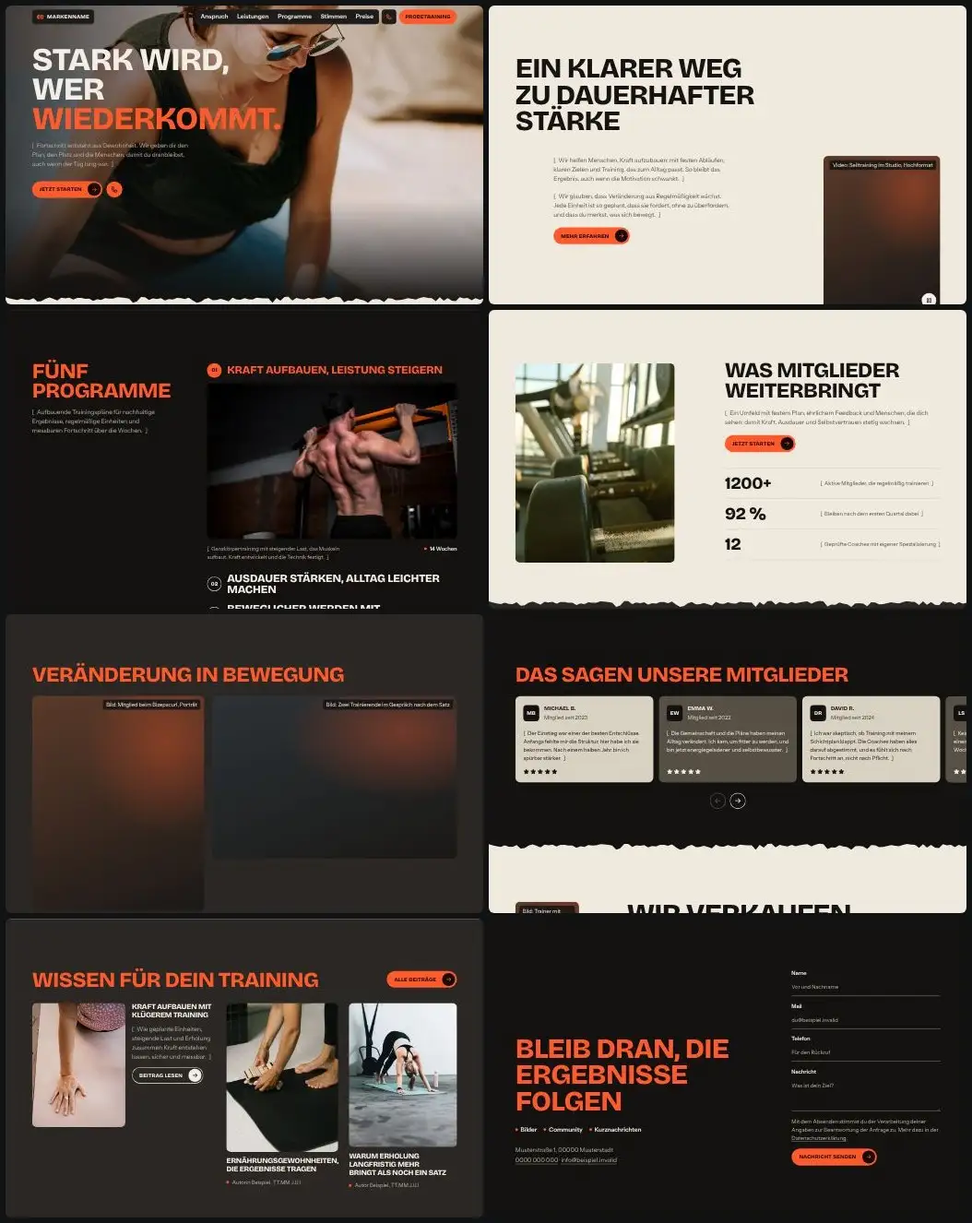
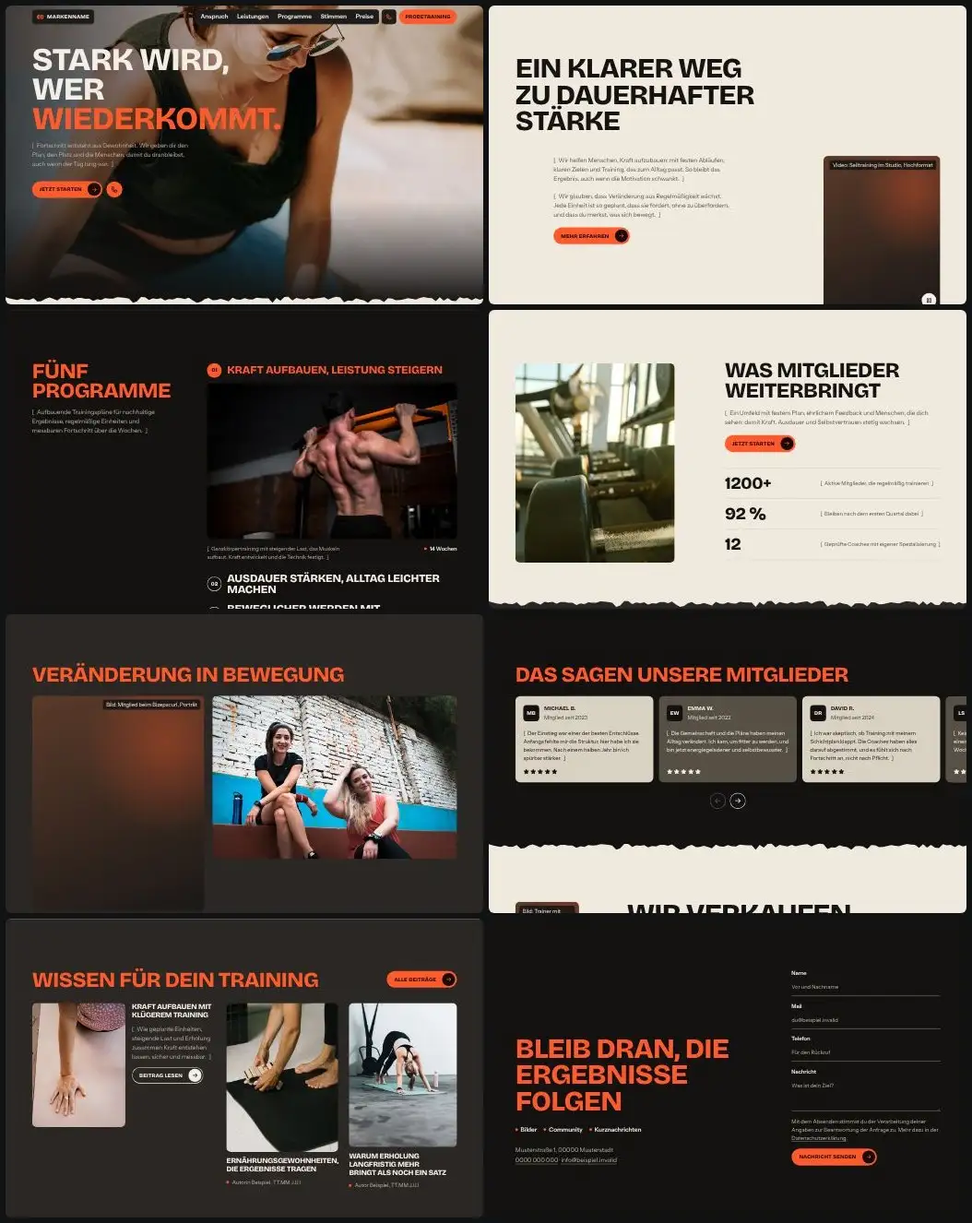
Bibliothek t55: weitere Beispielfotos (Unsplash) eingebaut, Vorschaubilder neu erzeugt
Claude-Session: https://claude.ai/code/session_01DoGuL1bwF3ewggMgZ4Cpvd

Changed region(s): [[0.2125, 0.5566, 0.4858, 0.7112]]

diff --git a/skills/webdesign-conversion/assets/vorlagen/bibliothek/t56/v2.html b/skills/webdesign-conversion/assets/vorlagen/bibliothek/t56/v2.html
@@ -61,7 +61,7 @@
   <section class="held2" id="top" aria-labelledby="h-held">
     <div class="wrap held2__raster">
       <div class="held2__text" data-staffel>
-        <h1 id="h-held" data-zeig>Dein Körper <span class="inbild"><span class="bild bild--b inbild__bild" data-platzhalter="Bild" aria-hidden="true"></span>kann mehr</span> als du denkst.</h1>
+        <h1 id="h-held" data-zeig>Dein Körper <span class="inbild"><span class="bild bild--b inbild__bild"><img src="bilder/sport-laeufer-huegel.webp" width="800" height="534" alt="Läufer auf einem Hügel unter weitem Himmel" loading="lazy" decoding="async"></span>kann mehr</span> als du denkst.</h1>
         <p data-zeig>Wir trainieren keine Körper, wir begleiten Menschen. Komm vorbei, probier aus und finde heraus, was dich trägt.</p>
         <div class="held2__knoepfe" data-zeig><a class="knopf knopf--dunkel" href="#beitreten"><span>Jetzt starten</span><span class="knopf__kreis " aria-hidden="true"><svg width="18" height="18" aria-hidden="true" focusable="false"><use href="#i-doppel"/></svg></span></a><a class="rund rund--tel" href="tel:+490000000000" aria-label="Anrufen (Beispielnummer)"><svg width="22" height="22" aria-hidden="true" focusable="false"><use href="#i-telefon"/></svg></a></div>
       </div>
@@ -85,7 +85,7 @@
       </dl>
       <div class="zwei" data-staffel>
         <div class="bild bild--a" data-zeig data-platzhalter="Bild: Athletin mit Tätowierung, Querformat" role="img" aria-label="Platzhalter für ein Foto einer Athletin im Studio"></div>
-        <div class="bild bild--d" data-zeig data-platzhalter="Bild: Athletin beim Dehnen, Querformat" role="img" aria-label="Platzhalter für ein Foto einer Athletin beim Dehnen"></div>
+        <div class="bild bild--d" data-zeig><img src="bilder/sport-dehnen-halle.webp" width="1000" height="667" alt="Frau dehnt sich in einer hellen Halle" loading="lazy" decoding="async"></div>
       </div>
     </div>
   </section>
@@ -104,7 +104,7 @@
   <!-- 4. Galerie: dunkel, breite Bilder in einer Spur -->
   <section class="sektion dunkel galerie" id="galerie" aria-labelledby="h-galerie" data-reiter-gruppe>
     <div class="wrap"><header class="mitte"><p class="kicker " data-zeig><span class="kicker__icon" aria-hidden="true"><svg width="14" height="14" aria-hidden="true" focusable="false"><use href="#i-ziel"/></svg></span>Galerie</p><h2 id="h-galerie" data-zeig>Einblicke in unser Studio</h2></header></div>
-    <ul class="spur spur--breit" data-reiter-spur tabindex="0" role="region" aria-label="Galerie, seitlich wischen" data-beispiel><li><figure class="gal"><div class="bild bild--c gal__bild" data-platzhalter="Bild: Athletin mit Sonnenbrille, Studio" role="img" aria-label="Platzhalter für ein Foto: Athletin mit Sonnenbrille, Studio"></div></figure></li><li><figure class="gal"><div class="bild bild--a gal__bild" data-platzhalter="Bild: Läuferin im Gegenlicht" role="img" aria-label="Platzhalter für ein Foto: Läuferin im Gegenlicht"></div></figure></li><li><figure class="gal"><div class="bild bild--d gal__bild"><img src="bilder/kreuzheben-langhantel.webp" width="800" height="533" alt="Frau greift eine Langhantel zum Kreuzheben" loading="lazy" decoding="async"></div></figure></li><li><figure class="gal"><div class="bild bild--b gal__bild" data-platzhalter="Bild: Gruppe beim Warm-up" role="img" aria-label="Platzhalter für ein Foto: Gruppe beim Warm-up"></div></figure></li><li><figure class="gal"><div class="bild bild--c gal__bild"><img src="bilder/haende-auf-matte.webp" width="800" height="533" alt="Hände auf einer Trainingsmatte" loading="lazy" decoding="async"></div></figure></li></ul>
+    <ul class="spur spur--breit" data-reiter-spur tabindex="0" role="region" aria-label="Galerie, seitlich wischen" data-beispiel><li><figure class="gal"><div class="bild bild--c gal__bild" data-platzhalter="Bild: Athletin mit Sonnenbrille, Studio" role="img" aria-label="Platzhalter für ein Foto: Athletin mit Sonnenbrille, Studio"></div></figure></li><li><figure class="gal"><div class="bild bild--a gal__bild"><img src="bilder/sport-frau-gegenlicht.webp" width="1000" height="600" alt="Frau im Gegenlicht der untergehenden Sonne" loading="lazy" decoding="async"></div></figure></li><li><figure class="gal"><div class="bild bild--d gal__bild"><img src="bilder/kreuzheben-langhantel.webp" width="800" height="533" alt="Frau greift eine Langhantel zum Kreuzheben" loading="lazy" decoding="async"></div></figure></li><li><figure class="gal"><div class="bild bild--b gal__bild"><img src="bilder/sport-gruppe-warmup.webp" width="1000" height="663" alt="Gruppe von Frauen beim Aufwärmen" loading="lazy" decoding="async"></div></figure></li><li><figure class="gal"><div class="bild bild--c gal__bild"><img src="bilder/haende-auf-matte.webp" width="800" height="533" alt="Hände auf einer Trainingsmatte" loading="lazy" decoding="async"></div></figure></li></ul>
     <div class="wrap"><div class="steuerung steuerung--mitte" data-reiter-steuerung><button class="rund" type="button" data-reiter="zurueck" aria-label="Vorheriges Bild"><svg width="20" height="20" aria-hidden="true" focusable="false"><use href="#i-links"/></svg></button><button class="rund" type="button" data-reiter="weiter" aria-label="Nächstes Bild"><svg width="20" height="20" aria-hidden="true" focusable="false"><use href="#i-pfeil"/></svg></button></div></div>
   </section>
 
@@ -165,7 +165,7 @@
   <section class="sektion faqs" id="faq" aria-labelledby="h-faq">
     <div class="wrap">
       <header class="mitte"><p class="kicker " data-zeig><span class="kicker__icon" aria-hidden="true"><svg width="14" height="14" aria-hidden="true" focusable="false"><use href="#i-blitz"/></svg></span>Fragen</p><h2 id="h-faq" data-zeig>Alles, was du wissen solltest</h2></header>
-      <div class="faq-liste" data-exklusiv data-beispiel><details class="faq" open data-zeig><summary><span class="faq__pm" aria-hidden="true"><span class="faq__plus"><svg width="16" height="16" aria-hidden="true" focusable="false"><use href="#i-plus"/></svg></span><span class="faq__minus"><svg width="16" height="16" aria-hidden="true" focusable="false"><use href="#i-minus"/></svg></span></span><span class="faq__frage">Welche Mitgliedschaften gibt es und was kosten sie?</span></summary><div class="faq__antwort"><div class="bild bild--b faq__bild" data-platzhalter="Bild: Trainerin berät" aria-hidden="true"></div><p>Es gibt zwei Tarife, monatlich oder jährlich zahlbar. Die aktuellen Preise stehen auf der Preisseite. Probetraining ist kostenlos und unverbindlich.</p></div></details><details class="faq" data-zeig><summary><span class="faq__pm" aria-hidden="true"><span class="faq__plus"><svg width="16" height="16" aria-hidden="true" focusable="false"><use href="#i-plus"/></svg></span><span class="faq__minus"><svg width="16" height="16" aria-hidden="true" focusable="false"><use href="#i-minus"/></svg></span></span><span class="faq__frage">Gibt es Personal Training?</span></summary><div class="faq__antwort"><p>Ja. Einzeltraining ist im Premiumtarif einmal im Monat enthalten und kann zugebucht werden.</p></div></details><details class="faq" data-zeig><summary><span class="faq__pm" aria-hidden="true"><span class="faq__plus"><svg width="16" height="16" aria-hidden="true" focusable="false"><use href="#i-plus"/></svg></span><span class="faq__minus"><svg width="16" height="16" aria-hidden="true" focusable="false"><use href="#i-minus"/></svg></span></span><span class="faq__frage">Gibt es Ermäßigungen für Schüler, Studierende oder Senioren?</span></summary><div class="faq__antwort"><p>Ja, mit gültigem Nachweis. Frag beim Probetraining danach, wir rechnen es direkt aus.</p></div></details><details class="faq" data-zeig><summary><span class="faq__pm" aria-hidden="true"><span class="faq__plus"><svg width="16" height="16" aria-hidden="true" focusable="false"><use href="#i-plus"/></svg></span><span class="faq__minus"><svg width="16" height="16" aria-hidden="true" focusable="false"><use href="#i-minus"/></svg></span></span><span class="faq__frage">Wann hat das Studio geöffnet?</span></summary><div class="faq__antwort"><p>Täglich von früh bis spät, am Wochenende etwas kürzer. Die genauen Zeiten stehen im Fuß und bei Google, sobald sie eingetragen sind.</p></div></details><details class="faq" data-zeig><summary><span class="faq__pm" aria-hidden="true"><span class="faq__plus"><svg width="16" height="16" aria-hidden="true" focusable="false"><use href="#i-plus"/></svg></span><span class="faq__minus"><svg width="16" height="16" aria-hidden="true" focusable="false"><use href="#i-minus"/></svg></span></span><span class="faq__frage">Muss ich Kurse vorab buchen?</span></summary><div class="faq__antwort"><p>Für beliebte Kurse empfehlen wir eine Buchung, damit du sicher einen Platz bekommst. Die Buchung klappt per App oder am Empfang.</p></div></details><details class="faq" data-zeig><summary><span class="faq__pm" aria-hidden="true"><span class="faq__plus"><svg width="16" height="16" aria-hidden="true" focusable="false"><use href="#i-plus"/></svg></span><span class="faq__minus"><svg width="16" height="16" aria-hidden="true" focusable="false"><use href="#i-minus"/></svg></span></span><span class="faq__frage">Ist eine Eingangsberatung dabei?</span></summary><div class="faq__antwort"><p>Ja. Zum Start besprechen wir dein Ziel, deine Woche und erstellen einen ersten Plan.</p></div></details></div>
+      <div class="faq-liste" data-exklusiv data-beispiel><details class="faq" open data-zeig><summary><span class="faq__pm" aria-hidden="true"><span class="faq__plus"><svg width="16" height="16" aria-hidden="true" focusable="false"><use href="#i-plus"/></svg></span><span class="faq__minus"><svg width="16" height="16" aria-hidden="true" focusable="false"><use href="#i-minus"/></svg></span></span><span class="faq__frage">Welche Mitgliedschaften gibt es und was kosten sie?</span></summary><div class="faq__antwort"><div class="bild bild--b faq__bild"><img src="bilder/sport-beratung-tablet.webp" width="1000" height="563" alt="Trainer und Kundin besprechen den Trainingsplan auf einem Tablet" loading="lazy" decoding="async"></div><p>Es gibt zwei Tarife, monatlich oder jährlich zahlbar. Die aktuellen Preise stehen auf der Preisseite. Probetraining ist kostenlos und unverbindlich.</p></div></details><details class="faq" data-zeig><summary><span class="faq__pm" aria-hidden="true"><span class="faq__plus"><svg width="16" height="16" aria-hidden="true" focusable="false"><use href="#i-plus"/></svg></span><span class="faq__minus"><svg width="16" height="16" aria-hidden="true" focusable="false"><use href="#i-minus"/></svg></span></span><span class="faq__frage">Gibt es Personal Training?</span></summary><div class="faq__antwort"><p>Ja. Einzeltraining ist im Premiumtarif einmal im Monat enthalten und kann zugebucht werden.</p></div></details><details class="faq" data-zeig><summary><span class="faq__pm" aria-hidden="true"><span class="faq__plus"><svg width="16" height="16" aria-hidden="true" focusable="false"><use href="#i-plus"/></svg></span><span class="faq__minus"><svg width="16" height="16" aria-hidden="true" focusable="false"><use href="#i-minus"/></svg></span></span><span class="faq__frage">Gibt es Ermäßigungen für Schüler, Studierende oder Senioren?</span></summary><div class="faq__antwort"><p>Ja, mit gültigem Nachweis. Frag beim Probetraining danach, wir rechnen es direkt aus.</p></div></details><details class="faq" data-zeig><summary><span class="faq__pm" aria-hidden="true"><span class="faq__plus"><svg width="16" height="16" aria-hidden="true" focusable="false"><use href="#i-plus"/></svg></span><span class="faq__minus"><svg width="16" height="16" aria-hidden="true" focusable="false"><use href="#i-minus"/></svg></span></span><span class="faq__frage">Wann hat das Studio geöffnet?</span></summary><div class="faq__antwort"><p>Täglich von früh bis spät, am Wochenende etwas kürzer. Die genauen Zeiten stehen im Fuß und bei Google, sobald sie eingetragen sind.</p></div></details><details class="faq" data-zeig><summary><span class="faq__pm" aria-hidden="true"><span class="faq__plus"><svg width="16" height="16" aria-hidden="true" focusable="false"><use href="#i-plus"/></svg></span><span class="faq__minus"><svg width="16" height="16" aria-hidden="true" focusable="false"><use href="#i-minus"/></svg></span></span><span class="faq__frage">Muss ich Kurse vorab buchen?</span></summary><div class="faq__antwort"><p>Für beliebte Kurse empfehlen wir eine Buchung, damit du sicher einen Platz bekommst. Die Buchung klappt per App oder am Empfang.</p></div></details><details class="faq" data-zeig><summary><span class="faq__pm" aria-hidden="true"><span class="faq__plus"><svg width="16" height="16" aria-hidden="true" focusable="false"><use href="#i-plus"/></svg></span><span class="faq__minus"><svg width="16" height="16" aria-hidden="true" focusable="false"><use href="#i-minus"/></svg></span></span><span class="faq__frage">Ist eine Eingangsberatung dabei?</span></summary><div class="faq__antwort"><p>Ja. Zum Start besprechen wir dein Ziel, deine Woche und erstellen einen ersten Plan.</p></div></details></div>
     </div>
   </section>
 

diff --git a/skills/webdesign-conversion/assets/vorlagen/bibliothek/t56/index.html b/skills/webdesign-conversion/assets/vorlagen/bibliothek/t56/index.html
@@ -157,7 +157,7 @@
             <p class="tarif__titel">Enthalten:</p>
             <ul class="tarif__liste"><li><span class="haken" aria-hidden="true"><svg width="14" height="14" aria-hidden="true" focusable="false"><use href="#i-haken"/></svg></span>Zugang zu allen Geräten</li><li><span class="haken" aria-hidden="true"><svg width="14" height="14" aria-hidden="true" focusable="false"><use href="#i-haken"/></svg></span>Kurse ohne Limit</li><li><span class="haken" aria-hidden="true"><svg width="14" height="14" aria-hidden="true" focusable="false"><use href="#i-haken"/></svg></span>Persönliches Coaching im Monat</li><li><span class="haken" aria-hidden="true"><svg width="14" height="14" aria-hidden="true" focusable="false"><use href="#i-haken"/></svg></span>Ernährungsberatung inklusive</li></ul>
           </div>
-          <div class="bild bild--d tarif__bild" data-platzhalter="Bild: Trainierende am Meer" aria-hidden="true"></div>
+          <div class="bild bild--d tarif__bild"><img src="bilder/sport-strand-abendlicht.webp" width="1000" height="667" alt="Menschen am Strand im goldenen Abendlicht" loading="lazy" decoding="async"></div>
         </li>
       </ul>
     </div>
@@ -168,9 +168,9 @@
     <div class="wrap">
       <header class="mitte"><p class="kicker " data-zeig><span class="kicker__icon" aria-hidden="true"><svg width="14" height="14" aria-hidden="true" focusable="false"><use href="#i-hantel"/></svg></span>Stimmen</p><h2 id="h-stimmen" data-zeig>Wege, die motivieren</h2></header>
       <div class="mosaik" data-staffel data-beispiel>
-        <div class="bild bild--a mosaik__bild mosaik__bild--1" data-zeig data-platzhalter="Bild: Läuferin im Profil" role="img" aria-label="Platzhalter für ein Foto einer Läuferin im Profil"></div>
+        <div class="bild bild--a mosaik__bild mosaik__bild--1" data-zeig><img src="bilder/sport-frau-profil.webp" width="1000" height="667" alt="Sportlerin im Profil, am Geländer lehnend" loading="lazy" decoding="async"></div>
         <figure class="zitat zitat--akzent" data-zeig><span class="zitat__marke" aria-hidden="true"><svg width="22" height="22" aria-hidden="true" focusable="false"><use href="#i-zitat"/></svg></span><blockquote><p>Ich liebe die Energie hier. Jede Einheit fühlt sich intensiv und trotzdem leicht an, und ich werde jede Woche ein Stück stärker.</p></blockquote><figcaption><span class="avatar-gross avatar--2" aria-hidden="true"></span><span><strong>Jonathan R.</strong><span>Yogalehrer</span></span></figcaption></figure>
-        <div class="bild bild--d mosaik__bild mosaik__bild--3" data-zeig data-platzhalter="Bild: Läuferin im Gelände" role="img" aria-label="Platzhalter für ein Foto einer Läuferin im Gelände"></div>
+        <div class="bild bild--d mosaik__bild mosaik__bild--3" data-zeig><img src="bilder/sport-laeufer-wald.webp" width="1000" height="667" alt="Läufer in Rot auf einem Waldweg von hinten" loading="lazy" decoding="async"></div>
         <figure class="zitat zitat--dunkel" data-zeig><span class="zitat__marke" aria-hidden="true"><svg width="22" height="22" aria-hidden="true" focusable="false"><use href="#i-zitat"/></svg></span><blockquote><p>Die persönliche Betreuung hat meinen Alltag verändert. Ich habe endlich einen Plan, der zu meiner Woche passt.</p></blockquote><figcaption><span class="avatar-gross avatar--2" aria-hidden="true"></span><span><strong>Dominik L.</strong><span>Wellnesscoach</span></span></figcaption></figure>
         <div class="bild bild--c mosaik__bild mosaik__bild--5" data-zeig data-platzhalter="Bild: Sportbrille, Porträt" role="img" aria-label="Platzhalter für ein Porträtfoto mit Sportbrille"></div>
         <figure class="zitat zitat--dunkel" data-zeig><span class="zitat__marke" aria-hidden="true"><svg width="22" height="22" aria-hidden="true" focusable="false"><use href="#i-zitat"/></svg></span><blockquote><p>Vom ersten Tag an habe ich mich gesehen gefühlt. Die Trainer kümmern sich wirklich und helfen mir, dran zu bleiben.</p></blockquote><figcaption><span class="avatar-gross avatar--2" aria-hidden="true"></span><span><strong>Kerstin T.</strong><span>Fitnesscoach</span></span></figcaption></figure>

diff --git a/skills/webdesign-conversion/assets/vorlagen/bibliothek/t59/index.html b/skills/webdesign-conversion/assets/vorlagen/bibliothek/t59/index.html
@@ -134,7 +134,7 @@
           <div class="kurs__panel"><p class="kurs__nr zahl" aria-hidden="true">04</p><h3>Mobilität und <span>Erholung</span></h3><p>Sanfte Einheiten für Beweglichkeit, Regeneration und weniger Verletzungen, damit du länger und besser trainierst.</p><ul class="marken"><li>Dehnen</li><li>Faszien</li><li>Atmung</li><li>Regeneration</li></ul></div>
         </article></li>
         <li class="kurs"><article class="kurs__karte">
-          <div class="kurs__bild bild bild--c" data-platzhalter="Bild: Coach am Bildschirm" role="img" aria-label="Platzhalter für ein Foto eines Coachings am Bildschirm"></div>
+          <div class="kurs__bild bild bild--c"><img src="bilder/coach-tablet-sofa.webp" width="1000" height="669" alt="Mann arbeitet auf dem Sofa mit einem Tablet" loading="lazy" decoding="async"></div>
           <div class="kurs__panel"><p class="kurs__nr zahl" aria-hidden="true">05</p><h3>Online <span>Coaching</span></h3><p>Dein Plan und dein Coach, wo du gerade bist. Mit Wochenabgleich, Videos zu den Übungen und schneller Antwort.</p><ul class="marken"><li>Trainingsplan</li><li>Wochenabgleich</li><li>Videos</li><li>Antwort in 24 Stunden</li></ul></div>
         </article></li>
       </ul>
@@ -237,8 +237,8 @@
         <h2 id="h-ablauf" data-licht>Einfache Schritte zu deinem Start, mit Zuversicht.</h2>
       </header>
       <ol class="schritte" data-beispiel>
-        <li class="schritt"><div class="schritt__bild bild bild--b" data-platzhalter="Bild: Beratungsgespräch" role="img" aria-label="Platzhalter für ein Foto eines Beratungsgesprächs"></div><div class="schritt__panel"><span class="schritt__knoten" aria-hidden="true"></span><p class="schritt__nr zahl" aria-hidden="true">01</p><h3>Starte mit einer Beratung</h3><p>Wir lernen deine Ziele, deinen Alltag und dein Niveau kennen, um die richtige Strategie für dich zu finden.</p><a class="knopf knopf--hell" href="#kontakt">Termin vereinbaren</a></div></li>
-        <li class="schritt"><div class="schritt__bild bild bild--c" data-platzhalter="Bild: Coach mit Tablet" role="img" aria-label="Platzhalter für ein Foto eines Coaches mit Tablet"></div><div class="schritt__panel"><span class="schritt__knoten" aria-hidden="true"></span><p class="schritt__nr zahl" aria-hidden="true">02</p><h3>Bekomme deinen Trainingsplan</h3><p>Dein Coach baut eine persönliche Routine, abgestimmt auf Körper, Tempo und langfristige Ziele.</p></div></li>
+        <li class="schritt"><div class="schritt__bild bild bild--b"><img src="bilder/coach-beratung-fortschritt.webp" width="1000" height="563" alt="Trainer bespricht mit einer Kundin den Fortschritt" loading="lazy" decoding="async"></div><div class="schritt__panel"><span class="schritt__knoten" aria-hidden="true"></span><p class="schritt__nr zahl" aria-hidden="true">01</p><h3>Starte mit einer Beratung</h3><p>Wir lernen deine Ziele, deinen Alltag und dein Niveau kennen, um die richtige Strategie für dich zu finden.</p><a class="knopf knopf--hell" href="#kontakt">Termin vereinbaren</a></div></li>
+        <li class="schritt"><div class="schritt__bild bild bild--c"><img src="bilder/coach-kunde-trainingsplan.webp" width="1000" height="563" alt="Trainer und Kundin besprechen den Trainingsplan" loading="lazy" decoding="async"></div><div class="schritt__panel"><span class="schritt__knoten" aria-hidden="true"></span><p class="schritt__nr zahl" aria-hidden="true">02</p><h3>Bekomme deinen Trainingsplan</h3><p>Dein Coach baut eine persönliche Routine, abgestimmt auf Körper, Tempo und langfristige Ziele.</p></div></li>
         <li class="schritt"><div class="schritt__bild bild bild--d" data-platzhalter="Bild: Kontrolle der Messwerte" role="img" aria-label="Platzhalter für ein Foto bei der Kontrolle von Messwerten"></div><div class="schritt__panel"><span class="schritt__knoten" aria-hidden="true"></span><p class="schritt__nr zahl" aria-hidden="true">03</p><h3>Fortschritt prüfen, jede Woche besser</h3><p>Wir beobachten deine Ergebnisse und begleiten dich bei jedem Schritt, damit du dranbleibst und echte Veränderung siehst.</p></div></li>
       </ol>
     </div>

diff --git a/skills/webdesign-conversion/assets/vorlagen/bibliothek/t58/index.html b/skills/webdesign-conversion/assets/vorlagen/bibliothek/t58/index.html
@@ -120,7 +120,7 @@
         <li><svg width="44" height="44" aria-hidden="true" focusable="false"><use href="#i-gruppe"/></svg><span><b data-zaehle>140</b>+ Kurse und Events</span></li>
       </ul>
       <div class="collage">
-        <div class="collage__bild collage__bild--a bild bild--b" data-platzhalter="Bild: Frau am Kabelzug" data-zeig role="img" aria-label="Platzhalter für ein Foto vom Training am Kabelzug"></div>
+        <div class="collage__bild collage__bild--a bild bild--b" data-zeig><img src="bilder/sport-kabelzug-frau.webp" width="1000" height="666" alt="Frau trainiert am Kabelzug im Fitnessstudio" loading="lazy" decoding="async"></div>
         <div class="collage__bild collage__bild--b bild bild--c" data-zeig><img src="bilder/langhantel-fuesse-kunstrasen.webp" width="800" height="533" alt="Hände halten eine Langhantel, Füße auf Kunstrasen" loading="lazy" decoding="async"></div>
         <ul class="chips" data-beispiel>
           <li class="chip chip--1" data-parallax="0.05"><figure><div class="bild bild--d chip__bild" data-platzhalter="Bild: Porträt" role="img" aria-label="Platzhalter für ein Porträtfoto"></div><figcaption>Hier fühle ich mich wohl.</figcaption></figure></li>

diff --git a/skills/webdesign-conversion/assets/vorlagen/bibliothek/t55/index.html b/skills/webdesign-conversion/assets/vorlagen/bibliothek/t55/index.html
@@ -197,7 +197,7 @@
           <figcaption>Daniel K.</figcaption>
           <blockquote class="klammer">Ich wusste, wie man anfängt, aber nicht, wie man bleibt. Hier hat mich der Plan getragen. Heute fühle ich mich stärker und sicherer als je zuvor.</blockquote>
         </figure>
-        <div class="wandel-bild wandel-bild--b bild bild--a" data-zeig data-platzhalter="Bild: Zwei Trainierende im Gespräch nach dem Satz" role="img" aria-label="Platzhalter für ein Foto von zwei Trainierenden nach dem Satz"></div>
+        <div class="wandel-bild wandel-bild--b bild bild--a" data-zeig><img src="bilder/sport-zwei-frauen-mauer.webp" width="1000" height="667" alt="Zwei Frauen sitzen entspannt auf einer Mauer nach dem Training" loading="lazy" decoding="async"></div>
         <div class="wandel-bild wandel-bild--c bild bild--c" data-zeig data-platzhalter="Bild: Vorher und Nachher nebeneinander, Beispiel" role="img" aria-label="Platzhalter für zwei Fotos im Vorher-Nachher-Vergleich"></div>
         <figure class="wandel-karte wandel-karte--d" data-zeig>
           <figcaption>Sarah M.</figcaption>

diff --git a/skills/webdesign-conversion/assets/vorlagen/bibliothek/t56/BILDER.md b/skills/webdesign-conversion/assets/vorlagen/bibliothek/t56/BILDER.md
@@ -14,6 +14,14 @@ Alle Fotos von Unsplash, abgerufen am 25.11.2026. Titel und Lizenz stehen so auf
 | kniebeuge-kettlebell.webp.webp | v2: Funktionelles Training | Eine Frau mit einem Wasserkocher in einem Fitnessstudio | meaganstonephotography | https://unsplash.com/photos/r951FqxHTao | Unsplash Lizenz | 25.11.2026 |
 | kreuzheben-langhantel.webp.webp | v2: Kraftdreikampf, Galerie Langhantel | Eine Frau, die in einem Fitnessstudio eine Langhantel hebt | weareambitious | https://unsplash.com/photos/1PM_MY1zbF4 | Unsplash Lizenz | 25.11.2026 |
 | haende-auf-matte.webp.webp | v2: Galerie Dehnen nach dem Satz | Unbekannte Person streckt sich | luna_activefitness | https://unsplash.com/photos/Z-ffKGdVha4 | Unsplash Lizenz | 25.11.2026 |
+| sport-strand-abendlicht.webp | index: Tarif Meer | Menschen am Strand während der goldenen Stunde | @georgebakos | https://unsplash.com/photos/CQIu3lBuDQs | Unsplash Lizenz | 25.11.2026 |
+| sport-frau-profil.webp | index: Mosaik Profil | Eine Frau mit langen Haaren lehnt an einem Geländer | @adam_berry | https://unsplash.com/photos/MeS_Wb5XwZ8 | Unsplash Lizenz | 25.11.2026 |
+| sport-laeufer-wald.webp | index: Mosaik Gelände | Ein Mann in Rot rennt durch einen Wald | @hendrikmorkel | https://unsplash.com/photos/PEuBo_tBHDw | Unsplash Lizenz | 25.11.2026 |
+| sport-laeufer-huegel.webp | v2: Bild im Bild | Mann läuft auf dem Berg | @asoggetti | https://unsplash.com/photos/GYr9A2CPMhY | Unsplash Lizenz | 25.11.2026 |
+| sport-dehnen-halle.webp | v2: breit Dehnen | woman in gray long sleeve shirt | @matt909 | https://unsplash.com/photos/8Naac6Zpy28 | Unsplash Lizenz | 25.11.2026 |
+| sport-frau-gegenlicht.webp | v2: Galerie Gegenlicht | Junge Frau im Schatten eines Sonnenuntergangs | @maks_d | https://unsplash.com/photos/vm1uyqPxM9Q | Unsplash Lizenz | 25.11.2026 |
+| sport-gruppe-warmup.webp | v2: Galerie Warm-up | Gruppe von Frauen | @kasparseglitis | https://unsplash.com/photos/Vdx-2lsuhm0 | Unsplash Lizenz | 25.11.2026 |
+| sport-beratung-tablet.webp | v2: Trainerin berät | Paar, das in einem Fitnessstudio auf Tablet schaut | @silverkblack | https://unsplash.com/photos/pqtmyYDnzkg | Unsplash Lizenz | 25.11.2026 |
 
 ## Hinweise
 
@@ -25,3 +33,4 @@ Alle Fotos von Unsplash, abgerufen am 25.11.2026. Titel und Lizenz stehen so auf
 
 * index: Vorher und Nachher, zweiter Tarif (Trainierende am Meer), Mosaik (Läuferin im Profil, im Gelände, Sportbrille), drei Coach Porträts, Läuferin am Strand, fünf Beitragsbilder (Plan, Ernährung, Erholung, Technik, Motivation)
 * v2: Hero Athletin lacht, Bild im Bild, zwei breite Bilder (Tätowierung, Dehnen), Galerie (Sonnenbrille, Läuferin im Gegenlicht, Gruppe Warm-up), Trainerin berät, fünf Beitragsbilder
+* Nachtrag 25.11.2026: oben als offen genannte Slots Tarif Meer, Mosaik Profil und Gelände sowie v2 Bild im Bild, Dehnen, Gegenlicht, Warm-up und Trainerin berät sind jetzt belegt. Weiter offen: Tätowierung, Sonnenbrille, Hochformat lacht, Porträts und Beitragsbilder.

diff --git a/skills/webdesign-conversion/assets/vorlagen/bibliothek/t59/BILDER.md b/skills/webdesign-conversion/assets/vorlagen/bibliothek/t59/BILDER.md
@@ -11,6 +11,9 @@ Alle Fotos von Unsplash, abgerufen am 25.11.2026. Titel und Lizenz stehen so auf
 | gruppenkurs-bunte-wand.webp.webp | Kurs, Gruppenkurs im Studio | Eine Frau mit Dreadlocks in einem grauen Hemd | silverkblack | https://unsplash.com/photos/a-Hu17Qr-Tk | Unsplash Lizenz | 25.11.2026 |
 | dehnung-auf-matte.webp.webp | Kurs, Dehnung am Boden | Frau legt sich hin | anniespratt | https://unsplash.com/photos/Q6vClAWRqFY | Unsplash Lizenz | 25.11.2026 |
 | gruppenkurs-arme-seitlich.webp.webp | Kontakt, Frau im Studio | Zwei Frauen in einem Atelier mit geometrischen Mustern | silverkblack | https://unsplash.com/photos/lFTI7oj9hgs | Unsplash Lizenz | 25.11.2026 |
+| coach-tablet-sofa.webp | Kurs Bild | Ein Mann sitzt auf einer Couch | @stevedimatteo | https://unsplash.com/photos/gObie1HkQV4 | Unsplash Lizenz | 25.11.2026 |
+| coach-beratung-fortschritt.webp | Schritt 2 Beratung | Der Trainer bespricht den Fortschritt | @silverkblack | https://unsplash.com/photos/5p8vhHUEEgY | Unsplash Lizenz | 25.11.2026 |
+| coach-kunde-trainingsplan.webp | Schritt 3 Tablet | Trainer und Kunde besprechen Trainingsplan | @silverkblack | https://unsplash.com/photos/6ESp0qoio_I | Unsplash Lizenz | 25.11.2026 |
 
 ## Hinweise
 
@@ -22,3 +25,4 @@ Alle Fotos von Unsplash, abgerufen am 25.11.2026. Titel und Lizenz stehen so auf
 
 * Coach am Bildschirm, drei Coach Porträts
 * Beratungsgespräch, Coach mit Tablet, Kontrolle der Messwerte
+* Nachtrag 25.11.2026: Slots Coach am Bildschirm, Beratungsgespräch und Coach mit Tablet belegt; Kontrolle der Messwerte bleibt offen.

diff --git a/skills/webdesign-conversion/assets/vorlagen/bibliothek/t55/BILDER.md b/skills/webdesign-conversion/assets/vorlagen/bibliothek/t55/BILDER.md
@@ -15,6 +15,7 @@ Alle Fotos von Unsplash, abgerufen am 25.11.2026. Titel und Lizenz stehen so auf
 | haende-auf-matte.webp.webp | Beitrag, Bauchtrainer auf dem Boden | Unbekannte Person streckt sich | luna_activefitness | https://unsplash.com/photos/Z-ffKGdVha4 | Unsplash Lizenz | 25.11.2026 |
 | haende-auf-schwarzer-matte.webp.webp | Beitrag, Trinkflasche und Handtuch | ein Paar Füße mit Sandalen | mathildelangevin | https://unsplash.com/photos/aBJ3A-2LJyU | Unsplash Lizenz | 25.11.2026 |
 | hund-uebung-matte.webp.webp | Beitrag, Dehnübung auf der Matte | Frau in schwarzem Sport-BH und blauer Jeans | lgnwvr | https://unsplash.com/photos/amgv9YUg-MA | Unsplash Lizenz | 25.11.2026 |
+| sport-zwei-frauen-mauer.webp | Wandel Bild B | Zwei Frauen sitzen auf einer Mauer | @diseniatica | https://unsplash.com/photos/2wSpGuW0YQw | Unsplash Lizenz | 25.11.2026 |
 
 ## Hinweise
 
@@ -30,3 +31,4 @@ Alle Fotos von Unsplash, abgerufen am 25.11.2026. Titel und Lizenz stehen so auf
 * Zwei Trainierende im Gespräch
 * Vorher und Nachher
 * Trainer mit Kurzhantel, Porträt (Preise)
+* Nachtrag 25.11.2026: Slot Zwei Trainierende im Gespräch belegt.

diff --git a/skills/webdesign-conversion/assets/vorlagen/bibliothek/t58/BILDER.md b/skills/webdesign-conversion/assets/vorlagen/bibliothek/t58/BILDER.md
@@ -10,6 +10,7 @@ Alle Fotos von Unsplash, abgerufen am 25.11.2026. Titel und Lizenz stehen so auf
 | kreuzheben-langhantel.webp.webp | Stimme 1, Mitglied mit Langhantel | Eine Frau, die in einem Fitnessstudio eine Langhantel hebt | weareambitious | https://unsplash.com/photos/1PM_MY1zbF4 | Unsplash Lizenz | 25.11.2026 |
 | seilspringen-studio.webp.webp | Stimme 2, Seilspringen | Frau springt Seil, während Mann im Fitnessstudio | silverkblack | https://unsplash.com/photos/d5Q4aBfZclM | Unsplash Lizenz | 25.11.2026 |
 | dehnung-auf-matte.webp.webp | Stimme 3, Dehnung | Frau legt sich hin | anniespratt | https://unsplash.com/photos/Q6vClAWRqFY | Unsplash Lizenz | 25.11.2026 |
+| sport-kabelzug-frau.webp | Collage A Kabelzug | Frau im schwarzen Sport-BH trainiert | @sulemakaroglu | https://unsplash.com/photos/YFmvjO3TP_s | Unsplash Lizenz | 25.11.2026 |
 
 ## Hinweise
 
@@ -22,3 +23,4 @@ Alle Fotos von Unsplash, abgerufen am 25.11.2026. Titel und Lizenz stehen so auf
 * Collage Frau am Kabelzug
 * vier Chip Porträts, drei Trainer Porträts
 * App Bildschirm (Oberfläche)
+* Nachtrag 25.11.2026: Slot Frau am Kabelzug belegt.
